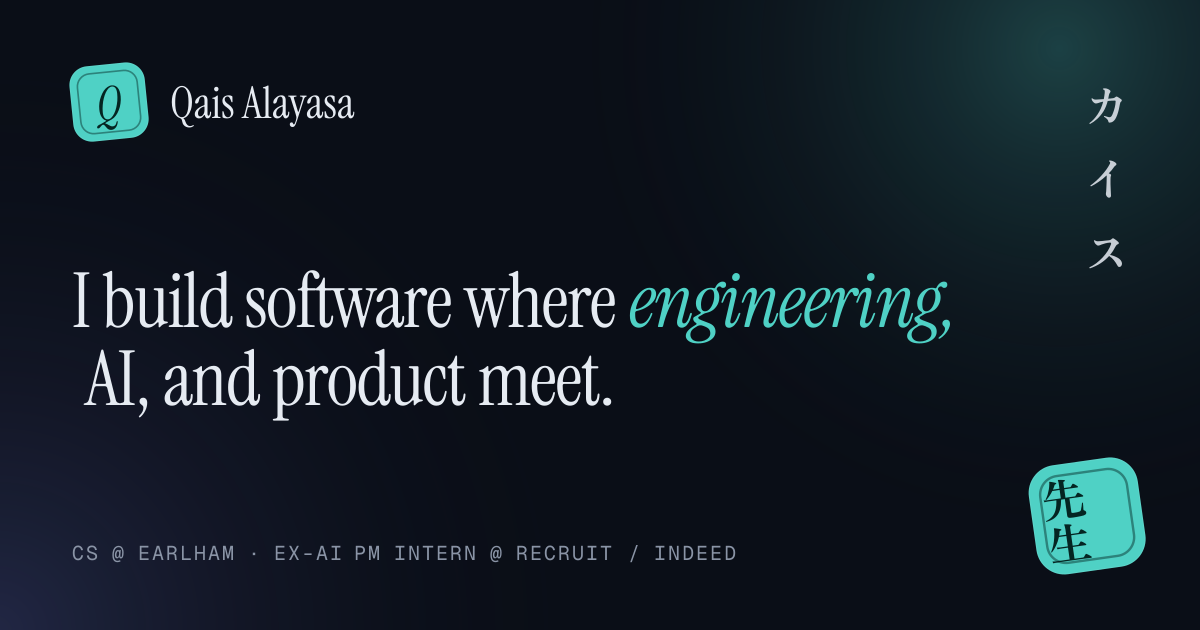
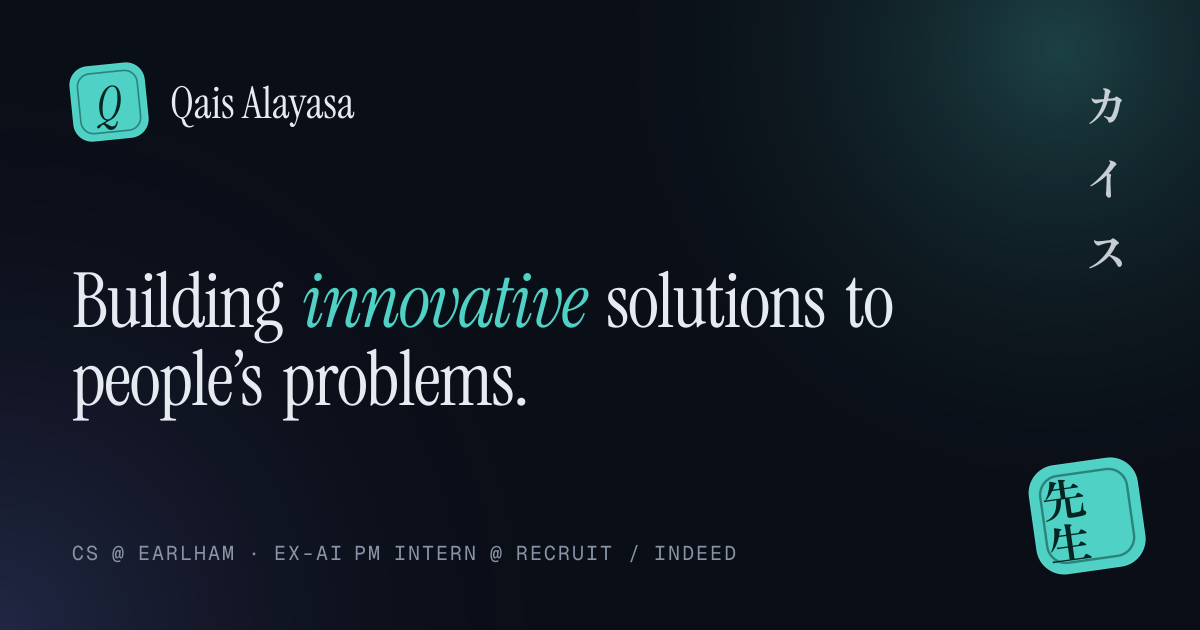
New hero headline, GitHub star chip, Indeed dates to Aug 2026

Changed region(s): [[0.0617, 0.4222, 0.8017, 0.6635]]

diff --git a/src/sections/Hero.tsx b/src/sections/Hero.tsx
@@ -1,6 +1,7 @@
 import { useEffect, useRef, useState } from 'react'
 import { AnimatePresence, m } from 'motion/react'
 import { profile } from '@/content/profile'
+import stars from '@/data/github-stars.json'
 import { useI18n } from '@/lib/i18n'
 import { asset, hasAsset } from '@/lib/media'
 import { scrollToId } from '@/lib/scroll'
@@ -10,6 +11,8 @@ import { btn } from '@/components/ui/Primitives'
 import { Magnetic } from '@/components/ui/Motion'
 import { Media } from '@/components/ui/Media'
 import { IconArrowRight, IconGitHub, IconLinkedIn } from '@/components/ui/Icons'
+
+const TOTAL_STARS = Object.values(stars as Record<string, number>).reduce((a, b) => a + b, 0)
 
 const GREETINGS = [
   { text: 'Hi, I’m Qais.', lang: 'en', dir: 'ltr' },
@@ -138,6 +141,20 @@ function Portrait() {
           {c}
         </span>
       ))}
+      {TOTAL_STARS > 0 && (
+        <a
+          href={profile.links.github}
+          target="_blank"
+          rel="noreferrer"
+          onClick={() => track('project_link', { label: 'hero_stars' })}
+          className="float-chip glass absolute top-[60%] -right-9 hidden items-center gap-1.5 rounded-full px-3.5 py-1.5 font-mono text-xs shadow-lg md:inline-flex"
+          style={{ ['--dur' as string]: '7.5s', ['--delay' as string]: '-2.1s' }}
+          aria-label={t('hero.stars', { n: TOTAL_STARS })}
+        >
+          <IconGitHub size={14} />
+          {TOTAL_STARS}
+        </a>
+      )}
     </div>
   )
 }

diff --git a/src/content/profile.ts b/src/content/profile.ts
@@ -6,8 +6,8 @@ export const profile = {
   nameAr: 'قيس',
   /** *word* renders in italic accent serif */
   headline: {
-    en: 'I build software where *engineering*, AI, and product meet.',
-    ja: '*エンジニアリング*とAIとプロダクトが交わる場所で、ソフトウェアをつくっています。',
+    en: 'Building *innovative* solutions to people’s problems.',
+    ja: '人々の課題に、*革新的*な解決策を。',
   } as L,
   intro: {
     en: 'Former AI Product Manager intern at Recruit / Indeed in Tokyo and full-stack software engineering intern at Augeo in Minneapolis. I love creating real value for people through innovative solutions.',
@@ -51,7 +51,7 @@ export const profile = {
   seo: {
     title: 'Qais Alayasa — Software, AI & Product',
     description:
-      'Qais Alayasa builds software where engineering, AI, and product meet. CS at Earlham College, former AI Product Manager intern at Recruit / Indeed in Tokyo and full-stack software engineering intern at Augeo. Trilingual in Arabic, English, and Japanese.',
+      'Qais Alayasa builds innovative solutions to people’s problems. CS at Earlham College, former AI Product Manager intern at Recruit / Indeed in Tokyo and full-stack software engineering intern at Augeo. Trilingual in Arabic, English, and Japanese.',
     alumniOf: ['Earlham College', 'Iwate University'],
   },
 }

diff --git a/src/content/experience.ts b/src/content/experience.ts
@@ -5,7 +5,7 @@ export const experience: Experience[] = [
     id: 'recruit',
     org: { en: 'Recruit Holdings / Indeed', ja: 'リクルートホールディングス / Indeed' },
     role: { en: 'AI Product Manager Intern', ja: 'AIプロダクトマネージャー インターン' },
-    dates: { en: 'Jun – Jul 2026', ja: '2026年6月〜7月' },
+    dates: { en: 'Jun – Aug 2026', ja: '2026年6月〜8月' },
     location: { en: 'Tokyo, Japan', ja: '東京' },
     logo: 'media/logos/recruit.png',
     photo: { src: 'media/japan/tokyo-recruit.jpg', alt: { en: 'At Recruit in Tokyo', ja: '東京のリクルートにて' } },

diff --git a/index.html b/index.html
@@ -60,7 +60,7 @@
     <noscript>
       <div style="max-width:40rem;margin:4rem auto;padding:0 1rem;font-family:system-ui,sans-serif;line-height:1.6">
         <h1>Qais Alayasa</h1>
-        <p>I build software where engineering, AI, and product meet. CS at Earlham College, former AI Product Manager intern at Recruit / Indeed in Tokyo.</p>
+        <p>Building innovative solutions to people’s problems. CS at Earlham College, former AI Product Manager intern at Recruit / Indeed in Tokyo.</p>
         <p><a href="https://github.com/kaisalayasa">GitHub</a></p>
       </div>
     </noscript>
